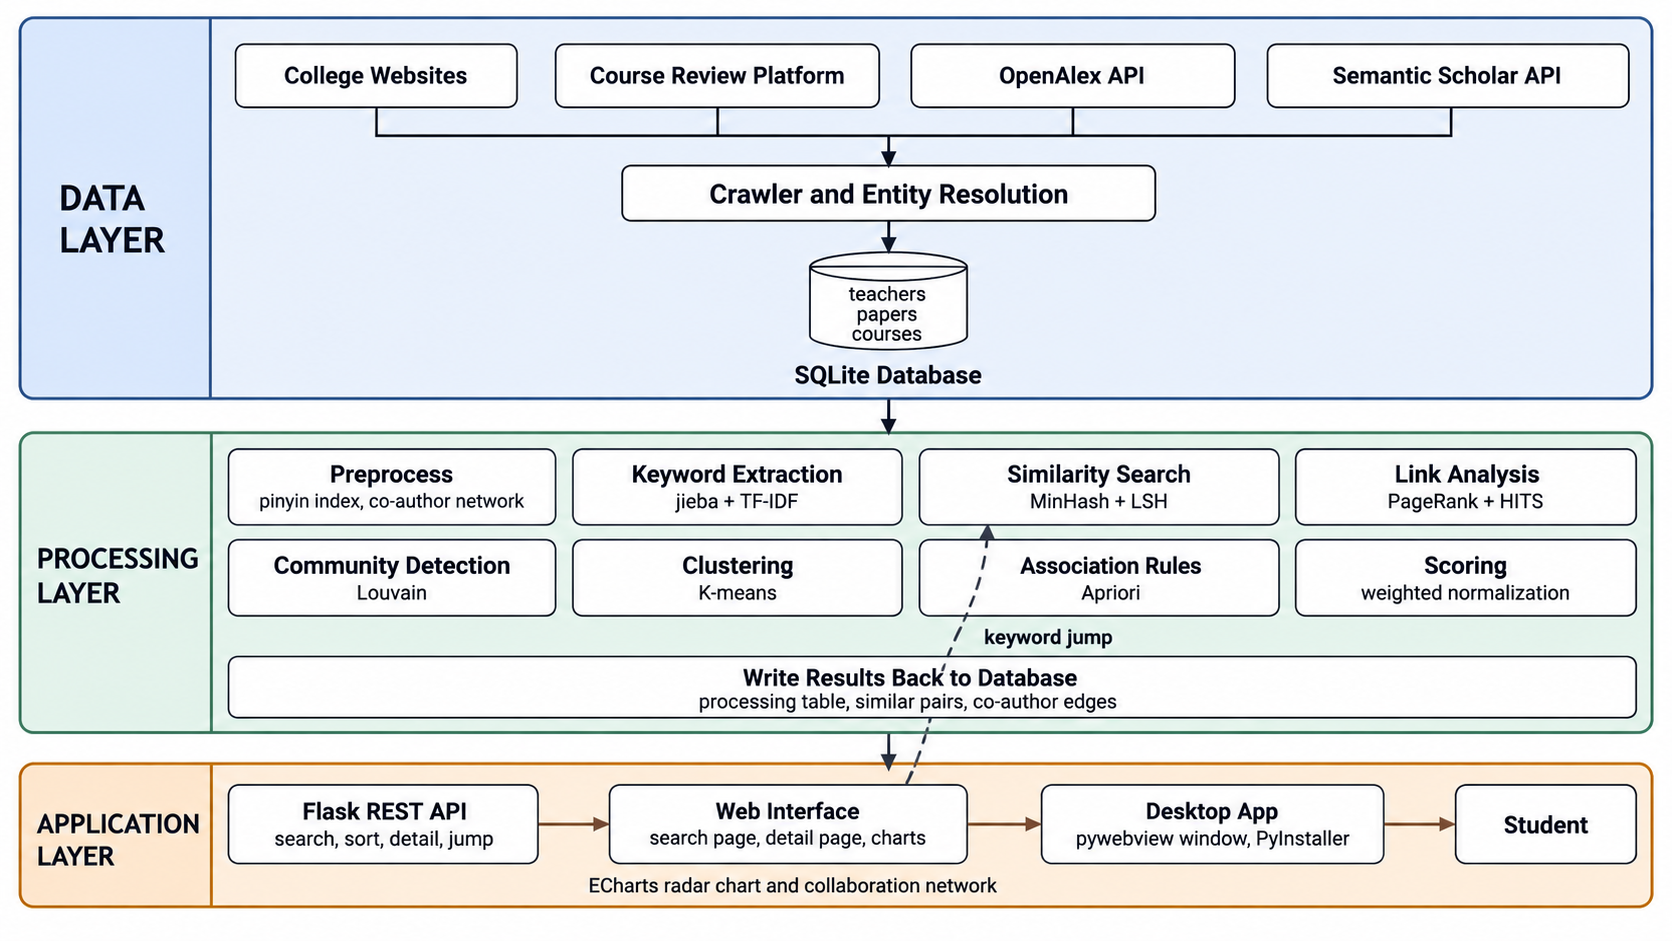
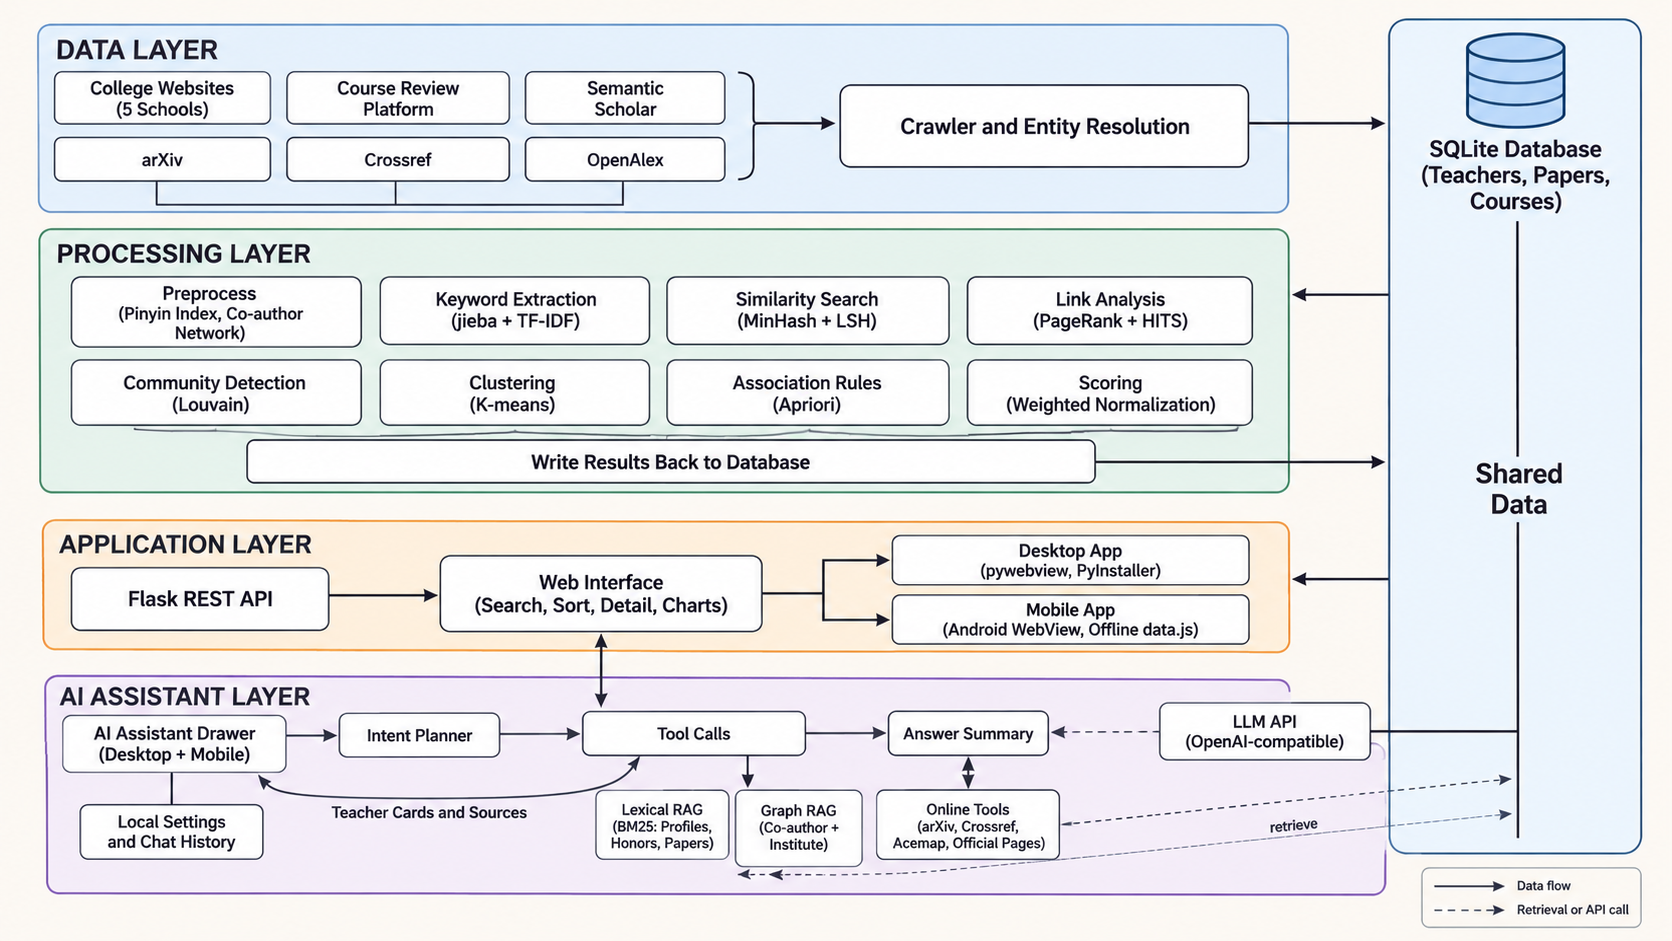
Update architecture diagram and README for AI assistant layer

diff --git a/README.md b/README.md
@@ -4,7 +4,7 @@ Advisor Finder is a course project for the Data Mining course. The project colle
 
 <table>
 <tr>
-<td><img src="docs/system.png" width="620" alt="System architecture"></td>
+<td><img src="docs/system.png" width="620" alt="System architecture with data, processing, application, and AI assistant layers"></td>
 <td>
 
 The data layer collects teachers, papers, courses, and course reviews from school websites, the course review site, and public academic APIs, then writes them to SQLite.
@@ -12,6 +12,8 @@ The data layer collects teachers, papers, courses, and course reviews from schoo
 The processing layer runs keyword extraction, similarity search, PageRank and HITS, Louvain community detection, K-means clustering, Apriori association rules, and the final score.
 
 The application layer serves the data with Flask. The front end uses plain HTML, CSS, JavaScript, and ECharts. The desktop app opens a pywebview window. The mobile app uses an Android WebView and bundled offline data.
+
+The AI assistant layer adds a chat drawer to both apps. The assistant plans the question, calls local search tools and public academic sources, then writes the answer. Local search uses a BM25 index for lexical RAG and a graph step over co-author and institute links for graph RAG.
 
 </td>
 </tr>

diff --git a/README_zh.md b/README_zh.md
@@ -4,7 +4,7 @@
 
 <table>
 <tr>
-<td><img src="docs/system.png" width="620" alt="系统架构"></td>
+<td><img src="docs/system.png" width="620" alt="包含数据层、处理层、应用层和 AI 助手层的系统架构"></td>
 <td>
 
 数据层从学院官网、选课社区和公开学术接口采集教师、论文、课程与评价数据，写入 SQLite。
@@ -12,6 +12,8 @@
 处理层完成关键词抽取、相似检索、PageRank 与 HITS、Louvain 社区发现、K-means 聚类、Apriori 关联规则和综合评分。
 
 应用层用 Flask 提供接口。前端使用原生 HTML、CSS、JavaScript 和 ECharts。桌面端由 pywebview 打开窗口。手机端使用 Android WebView 和随包离线数据。
+
+AI 助手层在两个应用中提供对话抽屉。助手先规划问题，调用本地检索工具和公开学术来源，再组织回答。本地检索使用 BM25 索引完成词法 RAG，并通过合作者和研究所关系完成图 RAG。
 
 </td>
 </tr>
